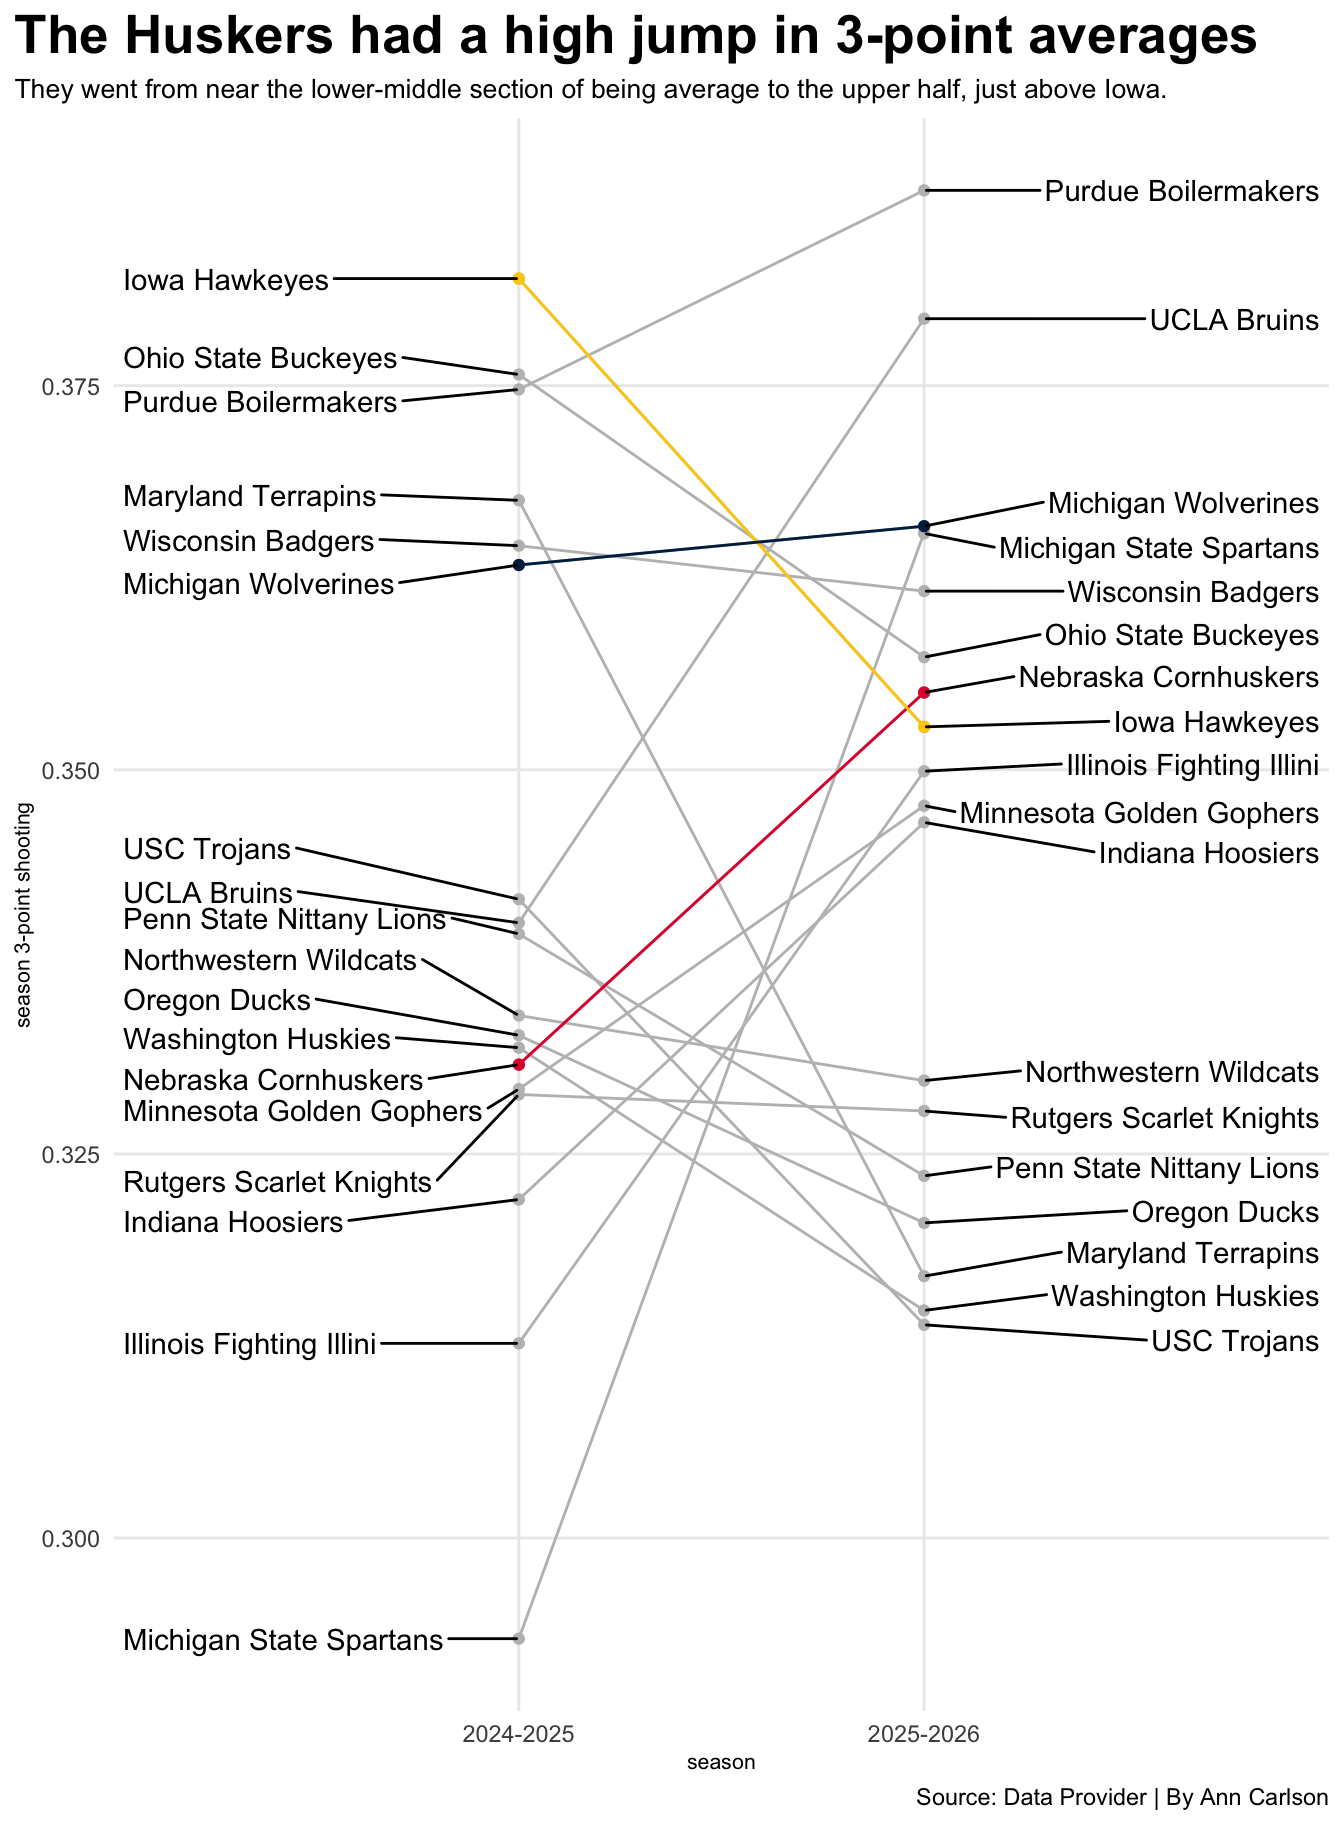
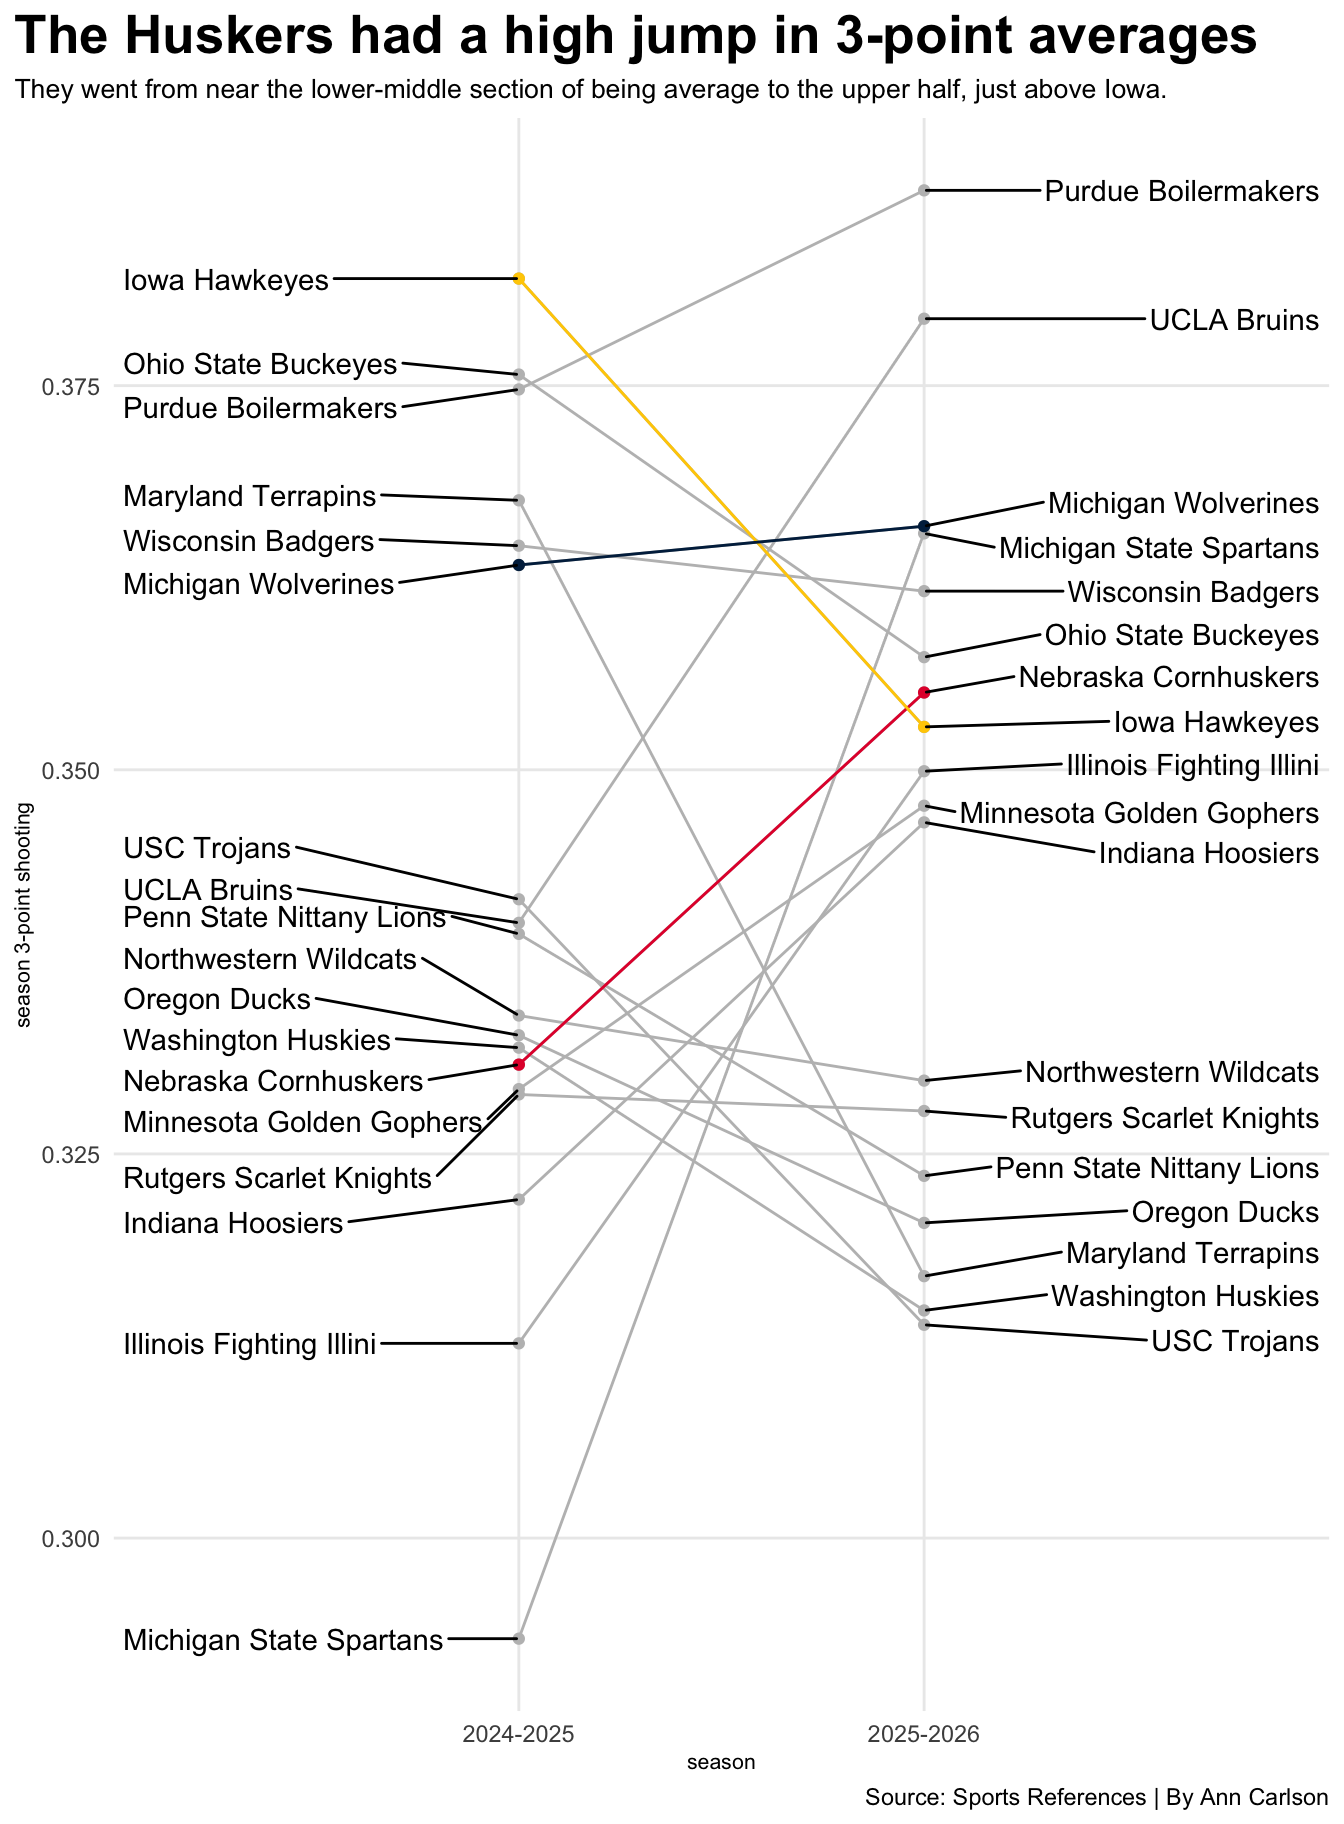
updated post with text

Changed region(s): [[0.0938, 0.4688, 0.375, 0.6875], [0.0938, 0.1875, 0.375, 0.25], [0.6562, 0.9688, 0.8438, 1.0]]

diff --git a/index.html b/index.html
@@ -7,7 +7,7 @@
 <meta name="viewport" content="width=device-width, initial-scale=1.0, user-scalable=yes">
 
 
-<title>Latest posts – Ann Carlson’s Nebraska Basketball Fans Blog</title>
+<title>Latest posts – Ann Carlson’s Blog</title>
 <style>
 /* Default styles provided by pandoc.
 ** See https://pandoc.org/MANUAL.html#variables-for-html for config info.
@@ -310,7 +310,7 @@ window.Quarto = {
       <div class="navbar-container container-fluid">
       <div class="navbar-brand-container mx-auto">
     <a class="navbar-brand" href="./index.html">
-    <span class="navbar-title">Ann Carlson’s Nebraska Basketball Fans Blog</span>
+    <span class="navbar-title">Ann Carlson’s Blog</span>
     </a>
   </div>
             <div id="quarto-search" class="" title="Search"></div>
@@ -324,12 +324,7 @@ window.Quarto = {
 <span class="menu-text">About</span></a>
   </li>  
   <li class="nav-item compact">
-    <a class="nav-link" href="https://github.com/mattwaite"> <i class="bi bi-github" role="img">
-</i> 
-<span class="menu-text"></span></a>
-  </li>  
-  <li class="nav-item compact">
-    <a class="nav-link" href="https://twitter.com/mattwaite"> <i class="bi bi-twitter" role="img">
+    <a class="nav-link" href="https://github.com/carlsonann58"> <i class="bi bi-github" role="img">
 </i> 
 <span class="menu-text"></span></a>
   </li>  
@@ -378,7 +373,7 @@ window.Quarto = {
 
 <div class="quarto-listing quarto-listing-container-default" id="listing-listing">
 <div class="list quarto-listing-default">
-<div class="quarto-post image-right" data-index="0" data-categories="bmNhYSUyQ2Jhc2tldGJhbGwlMkNodXNrZXJz" data-listing-date-sort="1775797200000" data-listing-file-modified-sort="1775753073036" data-listing-date-modified-sort="NaN" data-listing-reading-time-sort="5" data-listing-word-count-sort="897">
+<div class="quarto-post image-right" data-index="0" data-categories="bmNhYSUyQ2Jhc2tldGJhbGwlMkNodXNrZXJz" data-listing-date-sort="1775797200000" data-listing-file-modified-sort="1775753819792" data-listing-date-modified-sort="NaN" data-listing-reading-time-sort="7" data-listing-word-count-sort="1289">
 <div class="thumbnail"><a href="./posts/ncaa-basketball-huskers-success/index.html" class="no-external">
 
 <img loading="lazy" src="./posts/ncaa-basketball-huskers-success/image.png" class="thumbnail-image">
@@ -398,14 +393,7 @@ window.Quarto = {
 
 </div>
 <div class="delink listing-description"><a href="./posts/ncaa-basketball-huskers-success/index.html" class="no-external">
-
-<details class="code-fold">
-<summary>Code</summary>
-<div class="code-copy-outer-scaffold"><div class="sourceCode cell-code" id="cb1"><pre class="sourceCode r code-with-copy"><code class="sourceCode r"><span id="cb1-1"><span class="fu">library</span>(tidyverse)</span>
-<span id="cb1-2"><span class="fu">library</span>(ggrepel)</span>
-<span id="cb1-3"></span>
-<span id="cb1-4">logs26 <span class="ot">&lt;-</span> <span class="fu">read_csv</span>(<span class="st">"https://mattwaite.github.io/sportsdatafiles/logs26.csv"</span>)</span>
-<span id="cb1-5">logs25 <span class="ot">&lt;-</span> <span class="fu">read_csv</span>(<span class="st">"https://mattwaite.github.io/sport…</span></span><span id="cb1-6"></span><span id="cb1-7"></span><span id="cb1-8"><span class="ot"></span><span class="sc"></span></span><span id="cb1-9"><span class="fu"></span><span class="sc"></span></span><span id="cb1-10"><span class="fu"></span></span><span id="cb1-11"><span class="at"></span><span class="fu"></span></span><span id="cb1-12"><span class="at"></span><span class="fu"></span></span><span id="cb1-13"><span class="sc"></span></span><span id="cb1-14"><span class="fu"></span><span class="at"></span><span class="sc"></span></span><span id="cb1-15"></span><span id="cb1-16"><span class="ot"></span><span class="sc"></span></span><span id="cb1-17"><span class="fu"></span><span class="sc"></span></span><span id="cb1-18"><span class="fu"></span></span><span id="cb1-19"><span class="at"></span><span class="fu"></span></span><span id="cb1-20"><span class="at"></span><span class="fu"></span></span><span id="cb1-21"><span class="sc"></span></span><span id="cb1-22"><span class="fu"></span><span class="at"></span><span class="sc"></span><span class="sc"></span></span><span id="cb1-23"><span class="fu"></span></span><span id="cb1-24"><span class="at"></span></span><span id="cb1-25"><span class="at"></span></span><span id="cb1-26"><span class="at"></span></span><span id="cb1-27"></span><span id="cb1-28"></span><span id="cb1-29"><span class="ot"></span><span class="fu"></span></span><span id="cb1-30"></span><span id="cb1-31"><span class="sc"></span><span class="ot"></span><span class="fu"></span><span class="sc"></span><span class="at"></span><span class="fu"></span><span class="st"></span><span class="st"></span></span><span id="cb1-32"></span><span id="cb1-33"><span class="ot"></span><span class="sc"></span><span class="fu"></span><span class="sc"></span><span class="st"></span></span><span id="cb1-34"></span><span id="cb1-35"><span class="ot"></span><span class="sc"></span><span class="fu"></span><span class="sc"></span><span class="st"></span></span><span id="cb1-36"></span><span id="cb1-37"><span class="ot"></span><span class="sc"></span><span class="fu"></span><span class="sc"></span><span class="st"></span></span><span id="cb1-38"></span><span id="cb1-39"><span class="ot"></span><span class="sc"></span><span class="fu"></span><span class="sc"></span><span class="st"></span></span><span id="cb1-40"></span><span id="cb1-41"><span class="fu"></span><span class="sc"></span></span><span id="cb1-42"><span class="fu"></span><span class="at"></span><span class="fu"></span><span class="at"></span><span class="at"></span><span class="at"></span><span class="at"></span><span class="st"></span><span class="sc"></span></span><span id="cb1-43"><span class="fu"></span><span class="at"></span><span class="fu"></span><span class="at"></span><span class="at"></span><span class="at"></span><span class="st"></span><span class="sc"></span></span><span id="cb1-44"><span class="fu"></span><span class="at"></span><span class="fu"></span><span class="at"></span><span class="at"></span><span class="at"></span><span class="at"></span><span class="st"></span><span class="sc"></span></span><span id="cb1-45"><span class="fu"></span><span class="at"></span><span class="fu"></span><span class="at"></span><span class="at"></span><span class="at"></span><span class="at"></span><span class="st"></span><span class="sc"></span></span><span id="cb1-46"><span class="fu"></span><span class="at"></span><span class="fu"></span><span class="at"></span><span class="at"></span><span class="at"></span><span class="at"></span><span class="st"></span><span class="sc"></span></span><span id="cb1-47"><span class="fu"></span><span class="at"></span><span class="fu"></span><span class="at"></span><span class="at"></span><span class="at"></span><span class="at"></span><span class="st"></span><span class="sc"></span></span><span id="cb1-48"><span class="fu"></span><span class="at"></span><span class="fu"></span><span class="at"></span><span class="at"></span><span class="at"></span><span class="at"></span><span class="st"></span><span class="sc"></span></span><span id="cb1-49"><span class="fu"></span><span class="at"></span><span class="fu"></span><span class="at"></span><span class="at"></span><span class="at"></span><span class="at"></span><span class="st"></span><span class="sc"></span></span><span id="cb1-50"><span class="fu"></span><span class="at"></span><span class="sc"></span><span class="fu"></span><span class="sc"></span><span class="st"></span><span class="fu"></span><span class="at"></span><span class="at"></span><span class="at"></span><span class="at"></span><span class="at"></span><span class="st"></span><span class="at"></span><span class="sc"></span><span class="dv"></span><span class="at"></span><span class="dv"></span><span class="sc"></span></span><span id="cb1-51"><span class="fu"></span><span class="at"></span><span class="sc"></span><span class="fu"></span><span class="sc"></span><span class="st"></span><span class="fu"></span><span class="at"></span><span class="at"></span><span class="at"></span><span class="at"></span><span class="at"></span><span class="st"></span><span class="at"></span><span class="dv"></span><span class="at"></span><span class="dv"></span><span class="sc"></span></span><span id="cb1-52"><span class="co"></span></span><span id="cb1-53"><span class="co"></span></span><span id="cb1-54"><span class="fu"></span><span class="sc"></span></span><span id="cb1-55"><span class="fu"></span></span><span id="cb1-56"><span class="at"></span><span class="st"></span></span><span id="cb1-57"><span class="at"></span><span class="st"></span></span><span id="cb1-58"><span class="at"></span><span class="st"></span></span><span id="cb1-59"><span class="at"></span><span class="st"></span></span><span id="cb1-60"><span class="at"></span><span class="st"></span></span><span id="cb1-61"><span class="sc"></span></span><span id="cb1-62"><span class="fu"></span><span class="sc"></span></span><span id="cb1-63"><span class="fu"></span></span><span id="cb1-64"><span class="at"></span><span class="fu"></span><span class="at"></span><span class="dv"></span><span class="at"></span><span class="st"></span></span><span id="cb1-65"><span class="at"></span><span class="fu"></span><span class="at"></span><span class="dv"></span></span><span id="cb1-66"><span class="at"></span><span class="fu"></span><span class="at"></span><span class="dv"></span></span><span id="cb1-67"><span class="at"></span><span class="fu"></span></span><span id="cb1-68"><span class="at"></span><span class="st"></span></span><span id="cb1-69"></span></code></pre></div></div></details><div class="cell-output-display"><div><figure class="figure"><p></p></figure></div></div>
+Did Nebraska have their most historical season because of their offense?
 </a></div>
 </div>
 <div class="metadata">

diff --git a/posts/ncaa-basketball-huskers-success/index.html b/posts/ncaa-basketball-huskers-success/index.html
@@ -9,7 +9,7 @@
 <meta name="author" content="Ann Carlson">
 <meta name="dcterms.date" content="2026-04-10">
 
-<title>Nebraska basketball had their most historic season – Ann Carlson’s Nebraska Basketball Fans Blog</title>
+<title>Nebraska basketball had their most historic season – Ann Carlson’s Blog</title>
 <style>
 /* Default styles provided by pandoc.
 ** See https://pandoc.org/MANUAL.html#variables-for-html for config info.
@@ -287,7 +287,7 @@ pre > code.sourceCode > span > a:first-child::before { text-decoration: underlin
       <div class="navbar-container container-fluid">
       <div class="navbar-brand-container mx-auto">
     <a class="navbar-brand" href="../../index.html">
-    <span class="navbar-title">Ann Carlson’s Nebraska Basketball Fans Blog</span>
+    <span class="navbar-title">Ann Carlson’s Blog</span>
     </a>
   </div>
             <div id="quarto-search" class="" title="Search"></div>
@@ -301,12 +301,7 @@ pre > code.sourceCode > span > a:first-child::before { text-decoration: underlin
 <span class="menu-text">About</span></a>
   </li>  
   <li class="nav-item compact">
-    <a class="nav-link" href="https://github.com/mattwaite"> <i class="bi bi-github" role="img">
-</i> 
-<span class="menu-text"></span></a>
-  </li>  
-  <li class="nav-item compact">
-    <a class="nav-link" href="https://twitter.com/mattwaite"> <i class="bi bi-twitter" role="img">
+    <a class="nav-link" href="https://github.com/carlsonann58"> <i class="bi bi-github" role="img">
 </i> 
 <span class="menu-text"></span></a>
   </li>  
@@ -364,6 +359,12 @@ pre > code.sourceCode > span > a:first-child::before { text-decoration: underlin
 
 
 
+<p>Did Nebraska have their most historical season because of their offense?</p>
+<p>Nebraska basketball has had the most historic season ever. They made it to the Sweet 16, won 24 games in a row and were ranked in the top 10. During the 2025 season they didn’t even make it to the NCAA Tournament.</p>
+<p>Anyone watching Nebraska basketball this season could see there was a difference in Husker offense, specifically 3-pointers. Pryce Sandfort transferred to Nebraska putting up 129 3-pointers which was very helpful for the Huskers numbers. But it wasn’t just the threes that helped the Huskers during this historic season. Their overall shooting percentage and offensive rebounds also improved greatly.</p>
+<p>Let’s look at some numbers.</p>
+<p>We are going to look at data from the 2025 and 2026 season that was created by Sports References.</p>
+<p>To see how Nebraska has scored more 3-pointers this year compared to last year we will look at the 3-point percentage. This will also be compared to other Big Ten schools by using a slope chart.</p>
 <div class="cell">
 <details class="code-fold">
 <summary>Code</summary>
@@ -426,7 +427,7 @@ pre > code.sourceCode > span > a:first-child::before { text-decoration: underlin
 <span id="cb1-57"><a href="#cb1-57" aria-hidden="true" tabindex="-1"></a>    <span class="at">y=</span><span class="st">"season 3-point shooting"</span>, </span>
 <span id="cb1-58"><a href="#cb1-58" aria-hidden="true" tabindex="-1"></a>    <span class="at">title=</span><span class="st">"The Huskers had a high jump in 3-point averages"</span>, </span>
 <span id="cb1-59"><a href="#cb1-59" aria-hidden="true" tabindex="-1"></a>    <span class="at">subtitle=</span><span class="st">"They went from near the lower-middle section of being average to the upper half, just above Iowa."</span>, </span>
-<span id="cb1-60"><a href="#cb1-60" aria-hidden="true" tabindex="-1"></a>    <span class="at">caption=</span><span class="st">"Source: Data Provider | By Ann Carlson"</span></span>
+<span id="cb1-60"><a href="#cb1-60" aria-hidden="true" tabindex="-1"></a>    <span class="at">caption=</span><span class="st">"Source: Sports References | By Ann Carlson"</span></span>
 <span id="cb1-61"><a href="#cb1-61" aria-hidden="true" tabindex="-1"></a>    ) <span class="sc">+</span></span>
 <span id="cb1-62"><a href="#cb1-62" aria-hidden="true" tabindex="-1"></a>  <span class="fu">theme_minimal</span>() <span class="sc">+</span> </span>
 <span id="cb1-63"><a href="#cb1-63" aria-hidden="true" tabindex="-1"></a>  <span class="fu">theme</span>(</span>
@@ -445,6 +446,8 @@ pre > code.sourceCode > span > a:first-child::before { text-decoration: underlin
 </div>
 </div>
 </div>
+<p>Nebraska has moved from the lower-middle section to the upper half, putting them near some of the top teams in the Big Ten. This means that in the 2026 season they were making far more 3-pointers than in the 2025 season. The closest in competition would be the Iowa Hawkeyes who Nebraska lost to in the Sweet 16. Also included was the Michigan Wolverines who Nebraska lost to by three in the regular season. They won the entire NCAA Tournament.</p>
+<p>But what about all teams in college basketball? Where does Nebraska rank out against other teams in different conferences as far as shooting percentage?</p>
 <div class="cell">
 <details class="code-fold">
 <summary>Code</summary>
@@ -489,7 +492,7 @@ pre > code.sourceCode > span > a:first-child::before { text-decoration: underlin
 <span id="cb2-39"><a href="#cb2-39" aria-hidden="true" tabindex="-1"></a>    <span class="at">y=</span><span class="st">"Opponent shooting"</span>, </span>
 <span id="cb2-40"><a href="#cb2-40" aria-hidden="true" tabindex="-1"></a>    <span class="at">title=</span><span class="st">"Nebraska is in the upper half of shooting percentage"</span>, </span>
 <span id="cb2-41"><a href="#cb2-41" aria-hidden="true" tabindex="-1"></a>    <span class="at">subtitle=</span><span class="st">"The Husker’s finished in the same quarter as national champions Michigan and some Final Four teams."</span>, </span>
-<span id="cb2-42"><a href="#cb2-42" aria-hidden="true" tabindex="-1"></a>    <span class="at">caption=</span><span class="st">"Source: Data Provider | By Ann Carlson"</span></span>
+<span id="cb2-42"><a href="#cb2-42" aria-hidden="true" tabindex="-1"></a>    <span class="at">caption=</span><span class="st">"Source: Sports References | By Ann Carlson"</span></span>
 <span id="cb2-43"><a href="#cb2-43" aria-hidden="true" tabindex="-1"></a>    ) <span class="sc">+</span></span>
 <span id="cb2-44"><a href="#cb2-44" aria-hidden="true" tabindex="-1"></a>  <span class="fu">theme_minimal</span>() <span class="sc">+</span> </span>
 <span id="cb2-45"><a href="#cb2-45" aria-hidden="true" tabindex="-1"></a>  <span class="fu">theme</span>(</span>
@@ -508,6 +511,7 @@ pre > code.sourceCode > span > a:first-child::before { text-decoration: underlin
 </div>
 </div>
 </div>
+<p>Nebraska also saw an increase in offensive rebounds from the 2025 season, but they still didn’t look good compared to the rest of the Big Ten. How much better were they than last year? This dumbbell chart shows how Nebraska matches up against other Big Ten schools with offensive rebounds.</p>
 <div class="cell">
 <details class="code-fold">
 <summary>Code</summary>
@@ -558,6 +562,8 @@ pre > code.sourceCode > span > a:first-child::before { text-decoration: underlin
 </div>
 </div>
 </div>
+<p>Nebraska has a solid group of juniors and sophomores coming back next year. Assuming key players like Pryce Sandfort don’t enter the transfer portal they have a good chance of once again making history.</p>
+<p>Was this historic finish because Nebraska upped their offensive game, especially in 3-pointers? The answer is yes and now the question is will they continue to dominate in the Big Ten next year and have another historic season.</p>
 
 
 

diff --git a/about.html b/about.html
@@ -7,7 +7,7 @@
 <meta name="viewport" content="width=device-width, initial-scale=1.0, user-scalable=yes">
 
 
-<title>About – Ann Carlson’s Nebraska Basketball Fans Blog</title>
+<title>About – Ann Carlson’s Blog</title>
 <style>
 /* Default styles provided by pandoc.
 ** See https://pandoc.org/MANUAL.html#variables-for-html for config info.
@@ -249,7 +249,7 @@ ul.task-list li input[type="checkbox"] {
       <div class="navbar-container container-fluid">
       <div class="navbar-brand-container mx-auto">
     <a class="navbar-brand" href="./index.html">
-    <span class="navbar-title">Ann Carlson’s Nebraska Basketball Fans Blog</span>
+    <span class="navbar-title">Ann Carlson’s Blog</span>
     </a>
   </div>
             <div id="quarto-search" class="" title="Search"></div>
@@ -263,12 +263,7 @@ ul.task-list li input[type="checkbox"] {
 <span class="menu-text">About</span></a>
   </li>  
   <li class="nav-item compact">
-    <a class="nav-link" href="https://github.com/mattwaite"> <i class="bi bi-github" role="img">
-</i> 
-<span class="menu-text"></span></a>
-  </li>  
-  <li class="nav-item compact">
-    <a class="nav-link" href="https://twitter.com/mattwaite"> <i class="bi bi-twitter" role="img">
+    <a class="nav-link" href="https://github.com/carlsonann58"> <i class="bi bi-github" role="img">
 </i> 
 <span class="menu-text"></span></a>
   </li>  
@@ -297,7 +292,7 @@ ul.task-list li input[type="checkbox"] {
   </div>
 </header><main class="content" id="quarto-document-content">
 
-<p>Hi! I’m Ann Carlson. Here is a blog about the Husker basketball fanbase.</p>
+<p>Hi! I’m Ann Carlson. I am a sophomore sports media and broadcasting major. Here is a blog about the Husker basketball 2026 historic season.</p>
 
 
 </main> 
